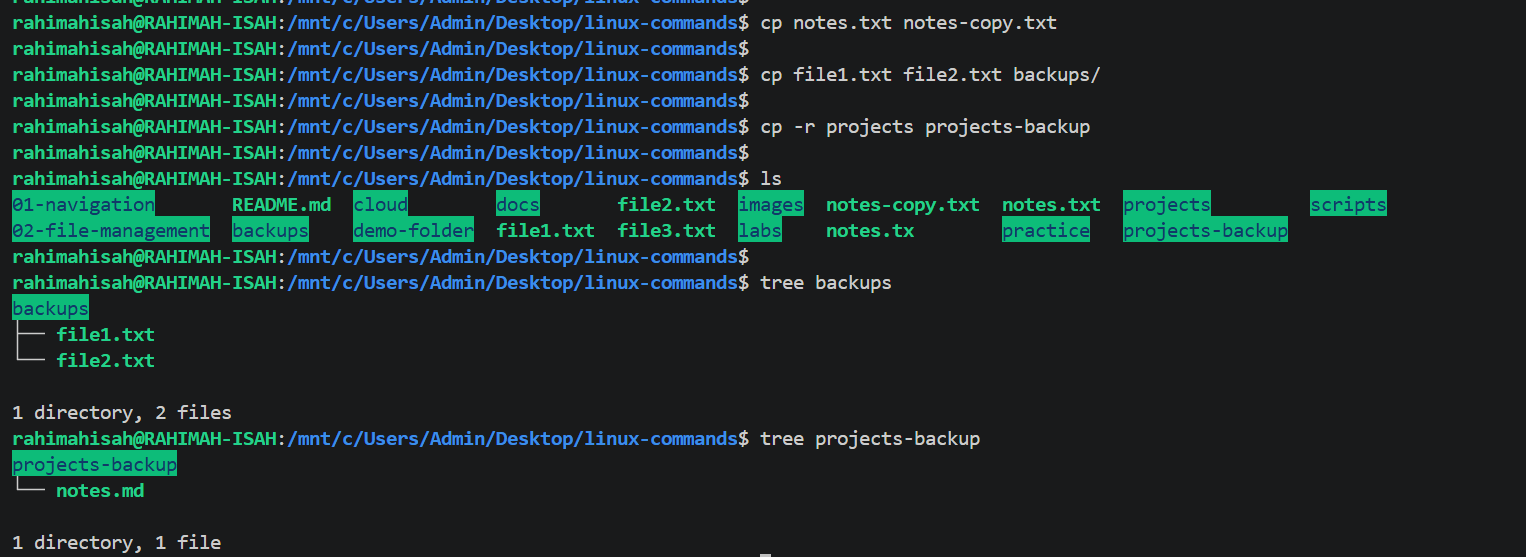
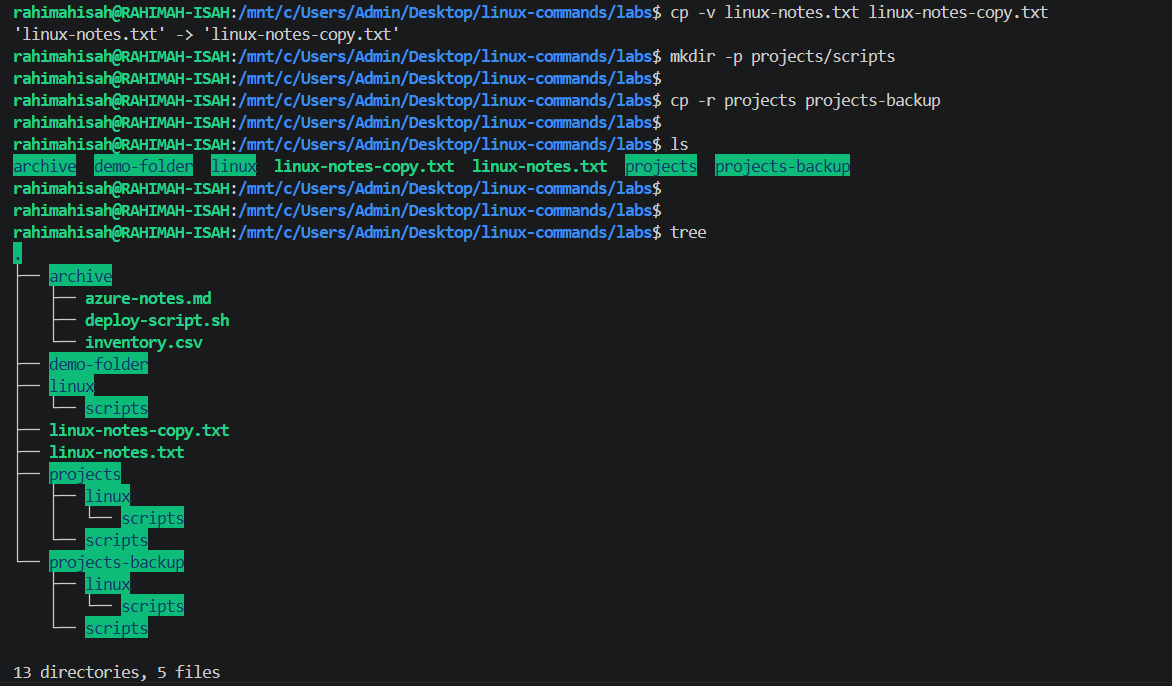
docs: enhance cp documentation

Changed region(s): [[0.0, 0.0, 0.9215, 1.0]]

diff --git a/02-file-management/README.md b/02-file-management/README.md
@@ -169,6 +169,21 @@ The `cp` (Copy) command is used to copy files and directories from one location 
 ```bash
 cp [source] [destination]
 ```
+## Common Options
+
+| Option | Description |
+|---------|-------------|
+| `-r` | Copies directories and their contents recursively. |
+| `-i` | Prompts before overwriting an existing file. |
+| `-v` | Displays each file as it is copied. |
+
+### Examples
+
+```bash
+cp -v notes.txt notes-copy.txt
+cp -r projects projects-backup
+cp -i report.txt backup/
+```
 
 ## Examples
 